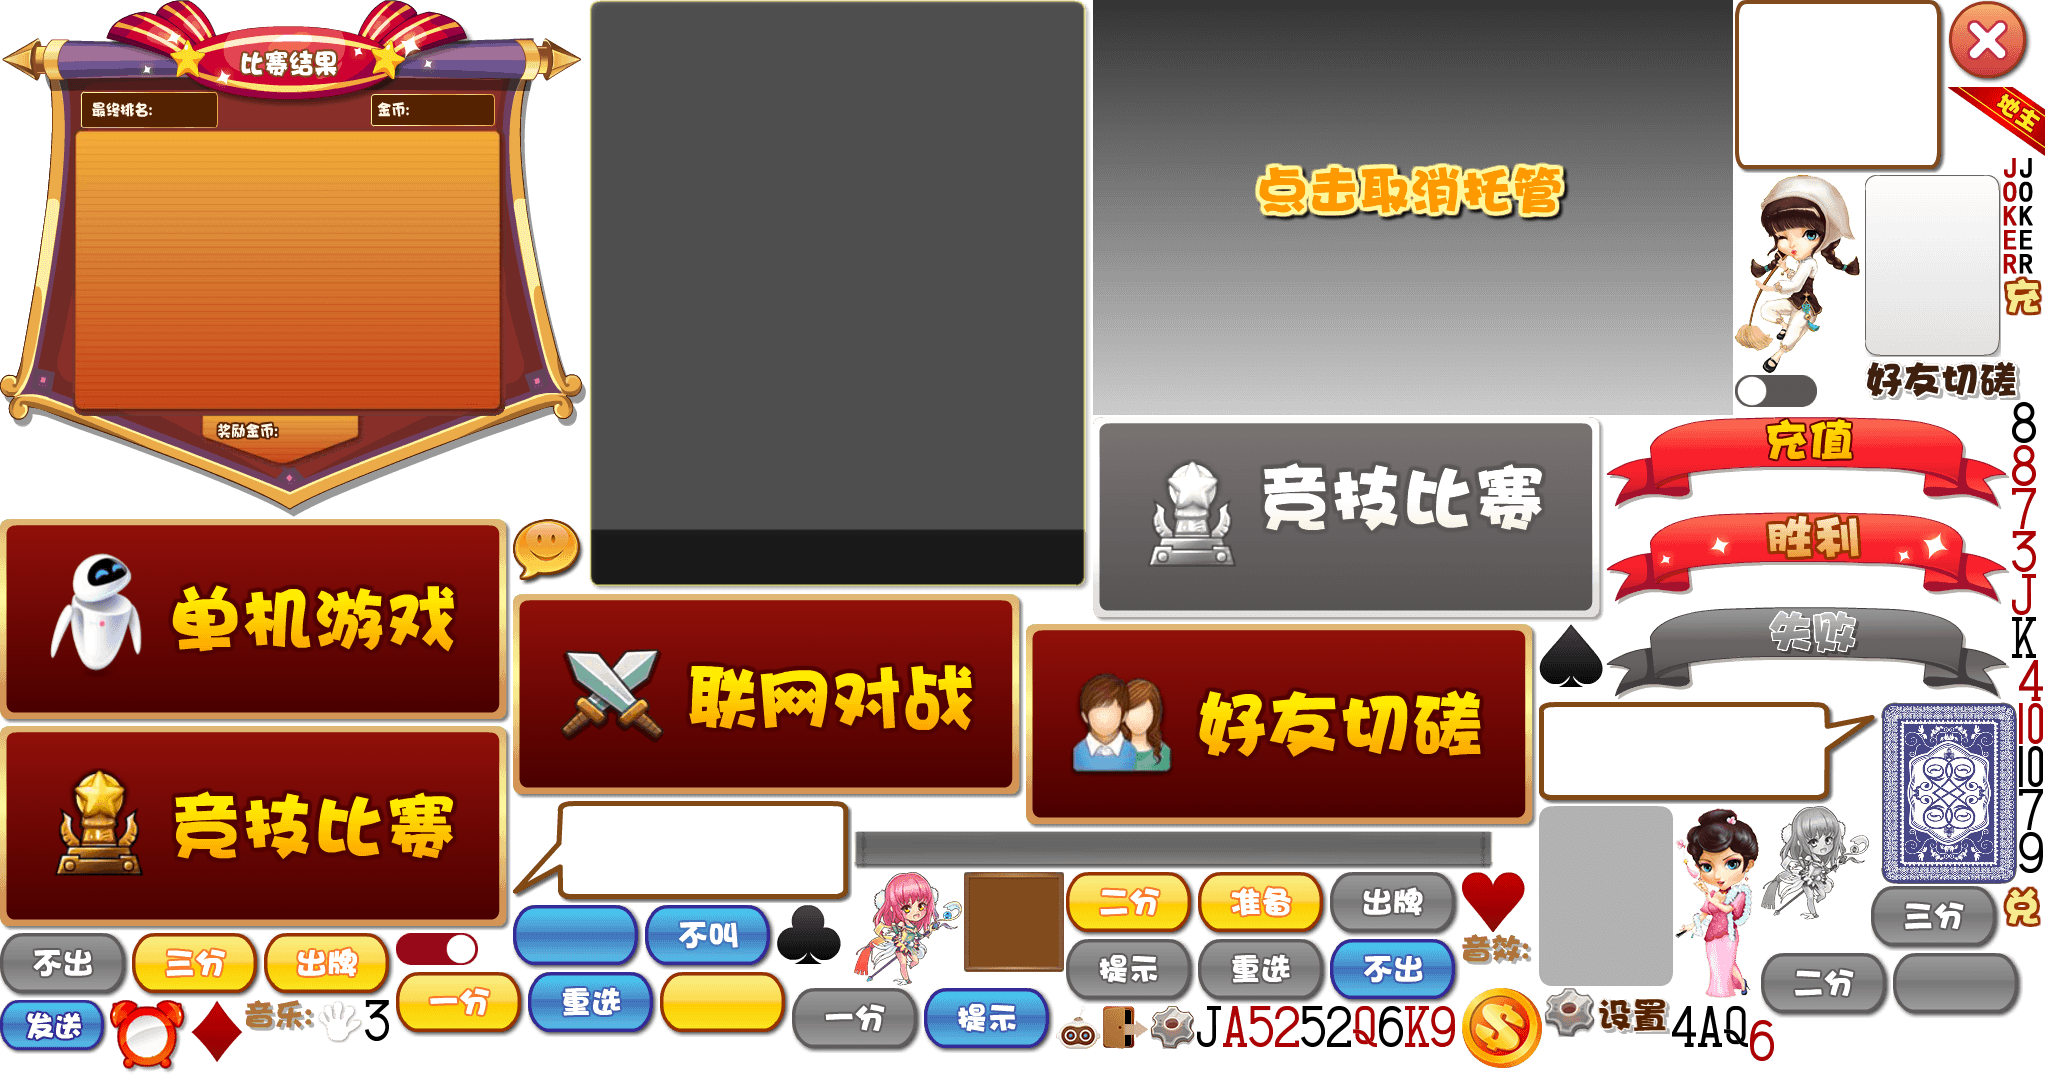
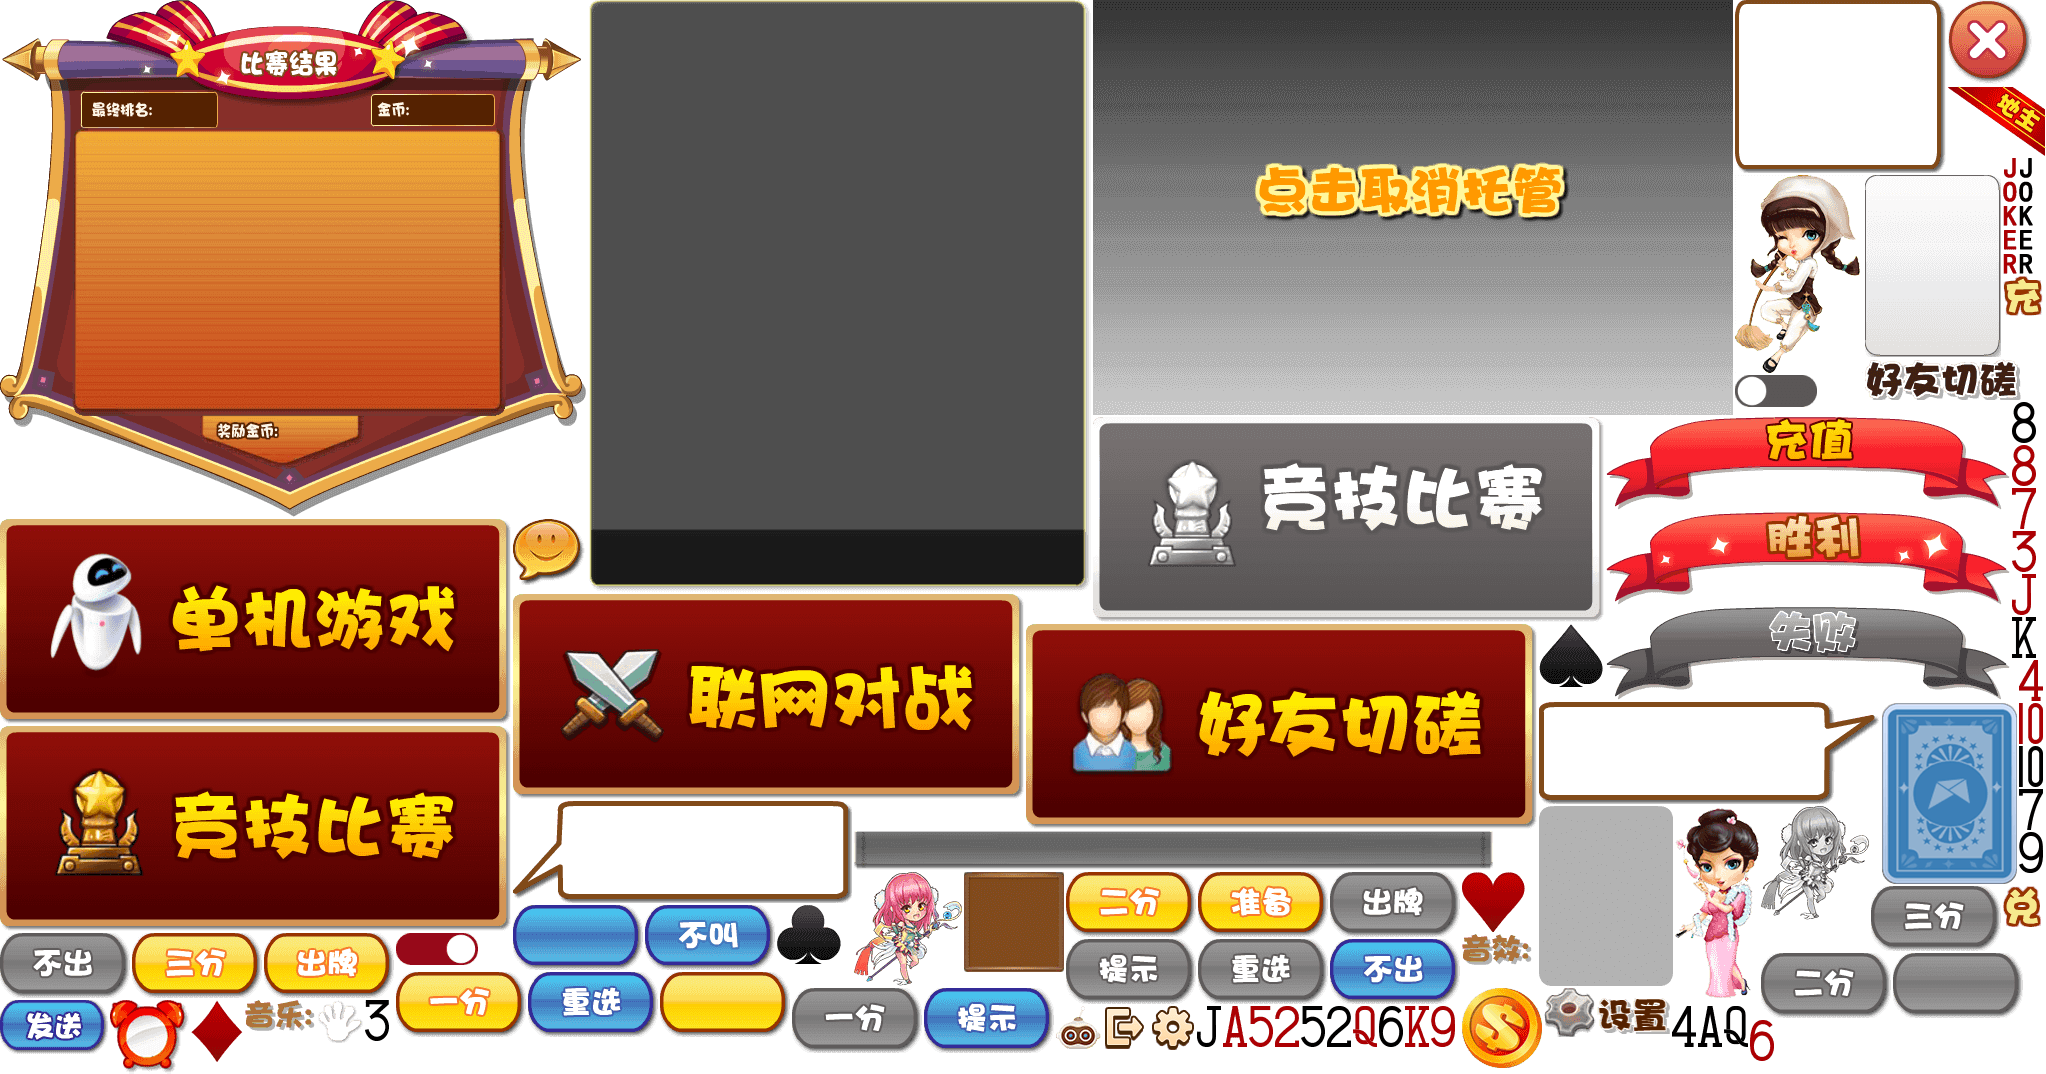
修改了扑克的背面，修改微信进入房间判断登录状态

Changed region(s): [[0.893, 0.6453, 0.9853, 0.8296], [0.5235, 0.9218, 0.585, 0.9832]]

diff --git a/framework/Basic/src/Main.ts b/framework/Basic/src/Main.ts
@@ -67,8 +67,7 @@ class Main extends eui.UILayer {
         await this.getWxUserInfo();
         SceneManager.init(this);
         await this.loadResource()
-        this.createGameScene();
-        this.wxInvite();
+
         // this.initializeAsync();
     }
 
@@ -146,6 +145,7 @@ class Main extends eui.UILayer {
             await this.loadTheme();
             await RES.loadGroup("preload", 0, loadingView);
             this.stage.removeChild(loadingView);
+            this.createGameScene();
 
         }
         catch (e) {
@@ -186,7 +186,11 @@ class Main extends eui.UILayer {
             break;
             case MatchvsMessage.MATCHVS_LOGIN:
                 Toast.show("登录成功");
-              
+                if (MatchvsData.loginStatus) {
+                    this.wxInvite();
+                } else {
+                    Toast.show("登录失败，邀请失效了");
+                }
             break;
         }
     }
@@ -227,9 +231,9 @@ class Main extends eui.UILayer {
     }
 
     protected createGameScene(): void {
-        var login = new Login();
-        this.addChild(login);
-
+        // var login = new Login();
+        // this.addChild(login);
+        SceneManager.showScene(Login);
         // var login = new BattleStageUI();
         // this.addChild(login);
         // login.init();

diff --git a/framework/Basic/src/scene/Room.ts b/framework/Basic/src/scene/Room.ts
@@ -26,6 +26,7 @@ class Room extends eui.Component implements  eui.UIComponent {
 	}
 
 	public onShow(obj) {
+		MatchvsData.loginStatus = false;
 		this.roomID = obj.roomID;
 		if(obj.isInvite) {
 			if(MatchvsData.gameMode) {
